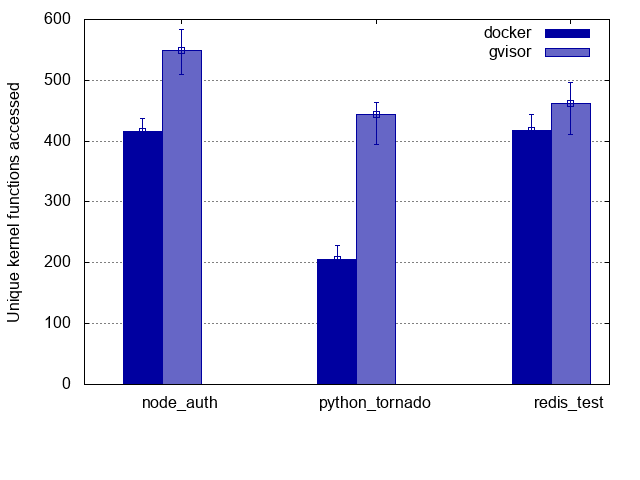
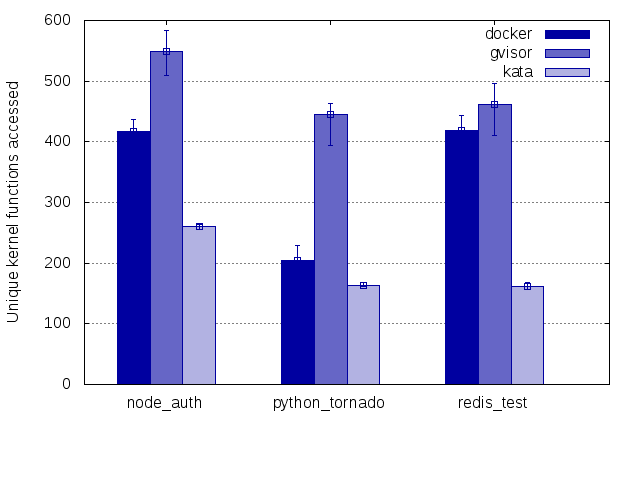
kata container results

diff --git a/README.md b/README.md
@@ -18,12 +18,25 @@ ends up in a directory for later perusal.
 
 The easiest way to replicate a test is to run commands of the form
 `./runtest.bash <RUNTIME> <CONTAINER> <OUTPUT_DIR>`.  RUNTIME can
-currently be `runc` (default docker) or `runsc` (gvisor) and CONTAINER
-is one of those specified above.  Here are some examples:
+currently be `runc` (default docker), `runsc` (gvisor), or `kata`
+(kata containers) and CONTAINER is one of those specified above.  Here
+are some examples:
 
     sudo ./runtest.bash runc python_tornado results/docker-python
     sudo ./runtest.bash runsc python_tornado results/gvisor-python
+    sudo ./runtest.bash kata python_tornado results/gvisor-python
 
+We inform the Docker daemon of the alternate runtimes by adding
+them to `/etc/docker/daemon.json`:
+
+    "runtimes": {
+        "kata": {
+            "path": "/usr/bin/kata-runtime"
+        },
+        "runsc": {
+            "path": "/usr/local/bin/runsc"
+        }
+    }
 
 ###  Technical notes
 
@@ -33,7 +46,8 @@ give the tracing enough time to turn on.  Partially this is because of
 how we gather the relevant pids.  This is done by looking through
 `pstree` for all the children of the `docker-containe` command
 specifying the `-runtime-root`, which is either `runtime-runc` (in the
-default case) or `runtime-runsc` (in the gvisor case).
+default case), `runtime-runsc` (in the gvisor case), or `runtime-kata`
+(in the kata containers case).
 
 We also process the raw traces primarily to eliminate interrupts,
 which may perform work on behalf of other processes.  There are two
@@ -51,8 +65,8 @@ system calls (e.g., `grep -i "^sys\_"`)
 
 ### Our results
 
-We have included some results for default docker and gvisor that were
-obtained using the `graphs_generate.bash` script.
+We have included some results for default docker, gvisor, and kata
+containers that were obtained using the `graphs_generate.bash` script.
 
 
 ![functions](https://github.ibm.com/djwillia/ftracing/blob/master/graph-functions.png?raw=true)
